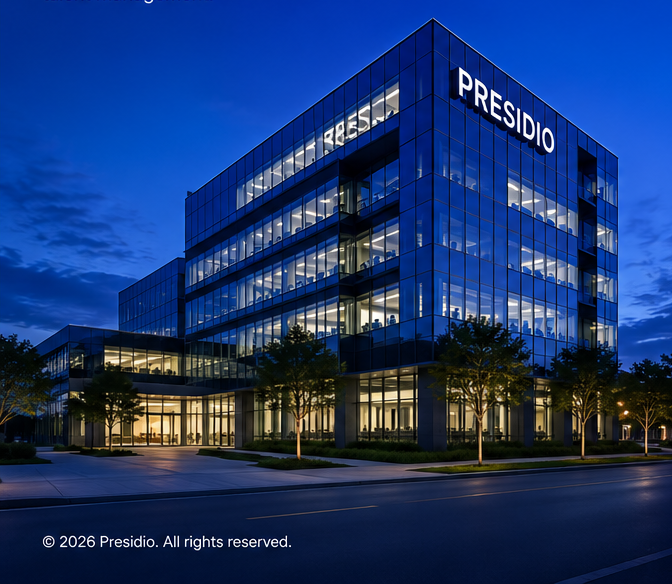
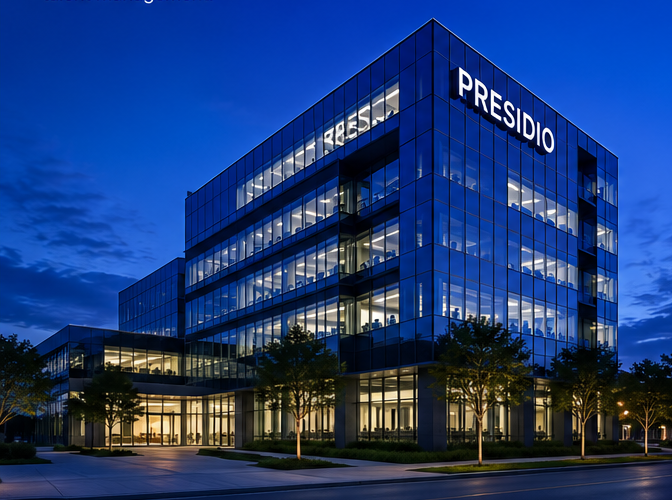
fix: remove dark band and copyright from login left panel
Re-crops building image to exclude the baked-in copyright text.
Removes mt-8 gap that caused the dark stripe between text and photo.
Updates top-fade overlay to match the bright royal blue panel gradient
for a seamless text-to-photo transition.

diff --git a/presidio-talent-hub/presidio-talent-hub/src/pages/Login.tsx b/presidio-talent-hub/presidio-talent-hub/src/pages/Login.tsx
@@ -56,16 +56,16 @@ export const Login: React.FC = () => {
             </p>
           </div>
 
-          {/* Building photo — fills the remaining space */}
-          <div className="flex-1 mt-8 -mx-10 relative overflow-hidden" style={{ minHeight: '320px' }}>
-            {/* Seamless top fade blending photo sky into panel gradient */}
-            <div className="absolute top-0 inset-x-0 h-24 z-10 pointer-events-none"
-              style={{ background: 'linear-gradient(to bottom, #0b2268 0%, rgba(11,34,104,0.55) 50%, transparent 100%)' }} />
+          {/* Building photo — fills remaining height, no gap */}
+          <div className="flex-1 -mx-10 relative overflow-hidden" style={{ minHeight: '320px' }}>
+            {/* Top fade: blends panel background into the building photo sky */}
+            <div className="absolute top-0 inset-x-0 h-32 z-10 pointer-events-none"
+              style={{ background: 'linear-gradient(to bottom, #1030a0 0%, rgba(16,48,160,0.7) 35%, rgba(16,48,160,0.2) 70%, transparent 100%)' }} />
             <img
               src={buildingImg}
               alt="Presidio headquarters"
               className="w-full h-full object-cover object-top"
-              style={{ filter: 'brightness(1.15) saturate(1.4) hue-rotate(-5deg)' }}
+              style={{ filter: 'brightness(1.2) saturate(1.5) hue-rotate(-5deg)' }}
             />
           </div>
 
